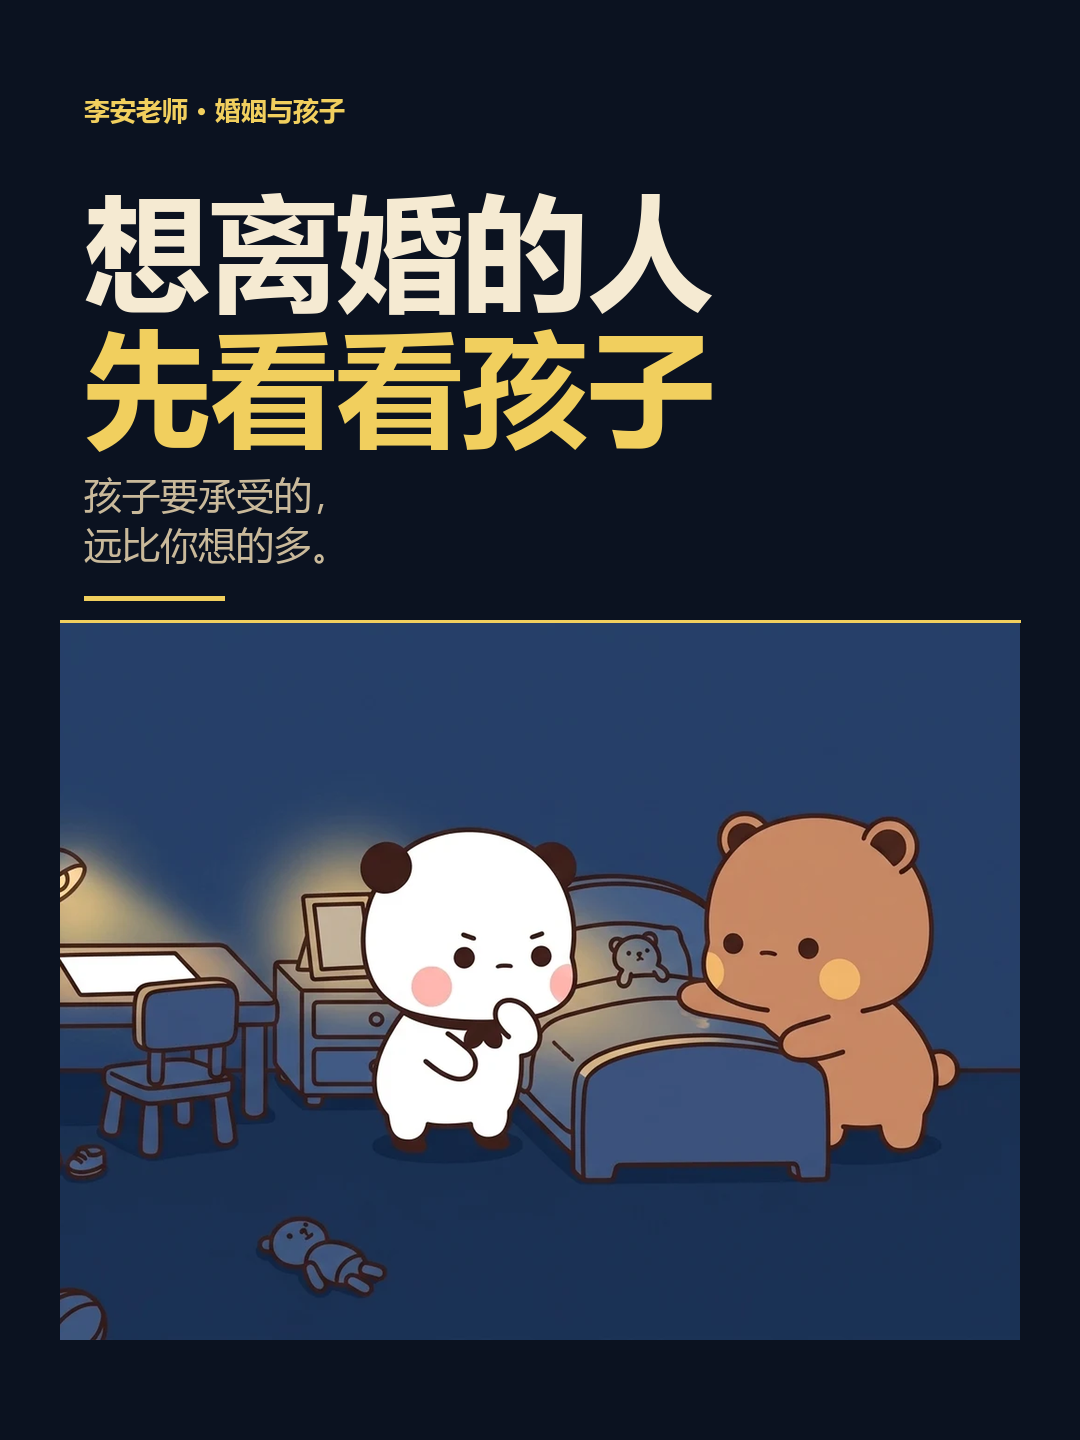
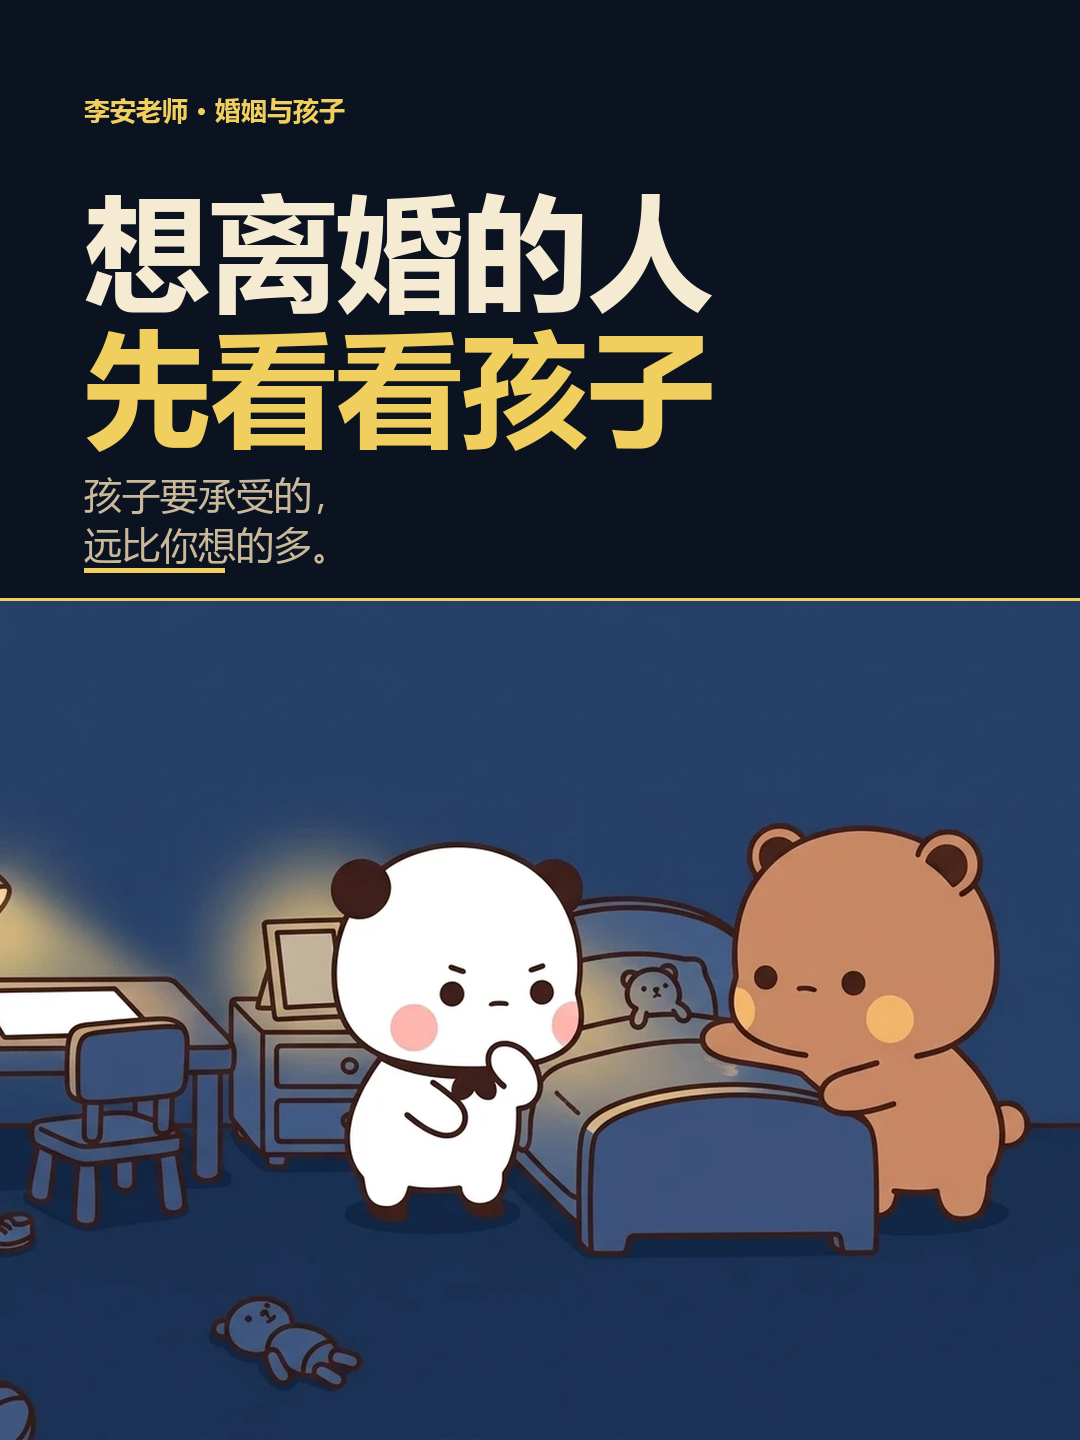
1108-12bubu：封面满宽拉长、删底行

Changed region(s): [[0.0, 0.375, 1.0, 1.0]]

diff --git a/projects/film-1108-12bubu/work/make_cover_v3.py b/projects/film-1108-12bubu/work/make_cover_v3.py
@@ -1,0 +1,58 @@
+from pathlib import Path
+
+from PIL import Image, ImageDraw, ImageFont
+
+LIB = Path(r"C:\Users\QWQ\web-video-workflow\projects\scene-library")
+OUT = Path(r"E:\video-factory\1108-12bubu")
+W, H = 1080, 1440
+BG = (11, 18, 32)
+YELLOW = (241, 207, 94)
+CREAM = (245, 234, 210)
+SOFT = (201, 185, 154)
+
+FONT_BOLD = r"C:\Windows\Fonts\msyhbd.ttc"
+FONT_REG = r"C:\Windows\Fonts\msyh.ttc"
+
+
+def font(path, size):
+    return ImageFont.truetype(path, size)
+
+
+def make(scene, out_path):
+    im = Image.new("RGB", (W, H), BG)
+    dr = ImageDraw.Draw(im)
+
+    dr.text((84, 92), "李安老师 · 婚姻与孩子", fill=YELLOW, font=font(FONT_BOLD, 26))
+    dr.text((84, 164), "想离婚的人", fill=CREAM, font=font(FONT_BOLD, 126))
+    dr.text((84, 300), "先看看孩子", fill=YELLOW, font=font(FONT_BOLD, 126))
+    dr.text((84, 468), "孩子要承受的，", fill=SOFT, font=font(FONT_REG, 38))
+    dr.text((84, 518), "远比你想的多。", fill=SOFT, font=font(FONT_REG, 38))
+    dr.rectangle([84, 568, 224, 572], fill=YELLOW)
+
+    # 满宽、加高到 840；从 y=600 一直铺到画面底部，底部不再留字
+    with Image.open(LIB / scene) as src:
+        src = src.convert("RGB")
+        cw, ch = 1389, 1080
+        left = (src.width - cw) // 2
+        top = (src.height - ch) // 2
+        panel = src.crop((left, top, left + cw, top + ch)).resize((1080, 840), Image.LANCZOS)
+    im.paste(panel, (0, 600))
+    dr.rectangle([0, 598, W - 1, 600], fill=YELLOW)
+
+    im.save(out_path, quality=95)
+    print(out_path, im.size)
+
+
+make("f1108b-p03.png", OUT / "封面A-3x4-李安老师.png")
+make("f1108b-p10.png", OUT / "封面B-3x4-李安老师.png")
+
+a = Image.open(OUT / "封面A-3x4-李安老师.png").convert("RGB").resize((540, 720), Image.LANCZOS)
+b = Image.open(OUT / "封面B-3x4-李安老师.png").convert("RGB").resize((540, 720), Image.LANCZOS)
+cmp = Image.new("RGB", (1096, 756), BG)
+cmp.paste(a, (4, 32))
+cmp.paste(b, (552, 32))
+d = ImageDraw.Draw(cmp)
+d.text((8, 4), "A  ·  儿童房", fill=CREAM, font=font(FONT_BOLD, 20))
+d.text((556, 4), "B  ·  客厅书包", fill=CREAM, font=font(FONT_BOLD, 20))
+cmp.save(OUT / "封面AB对比-李安老师.png", quality=95)
+print("compare", cmp.size)
